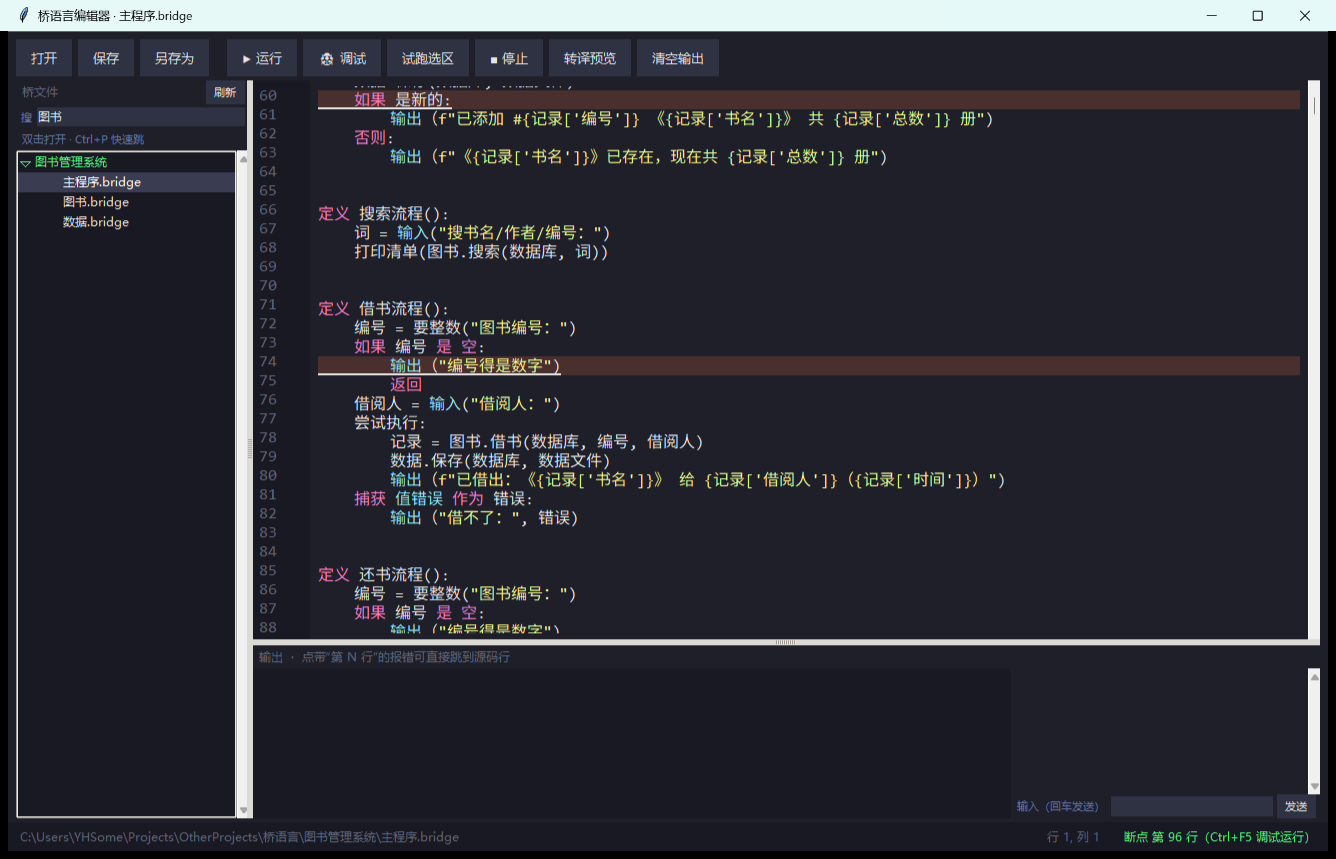
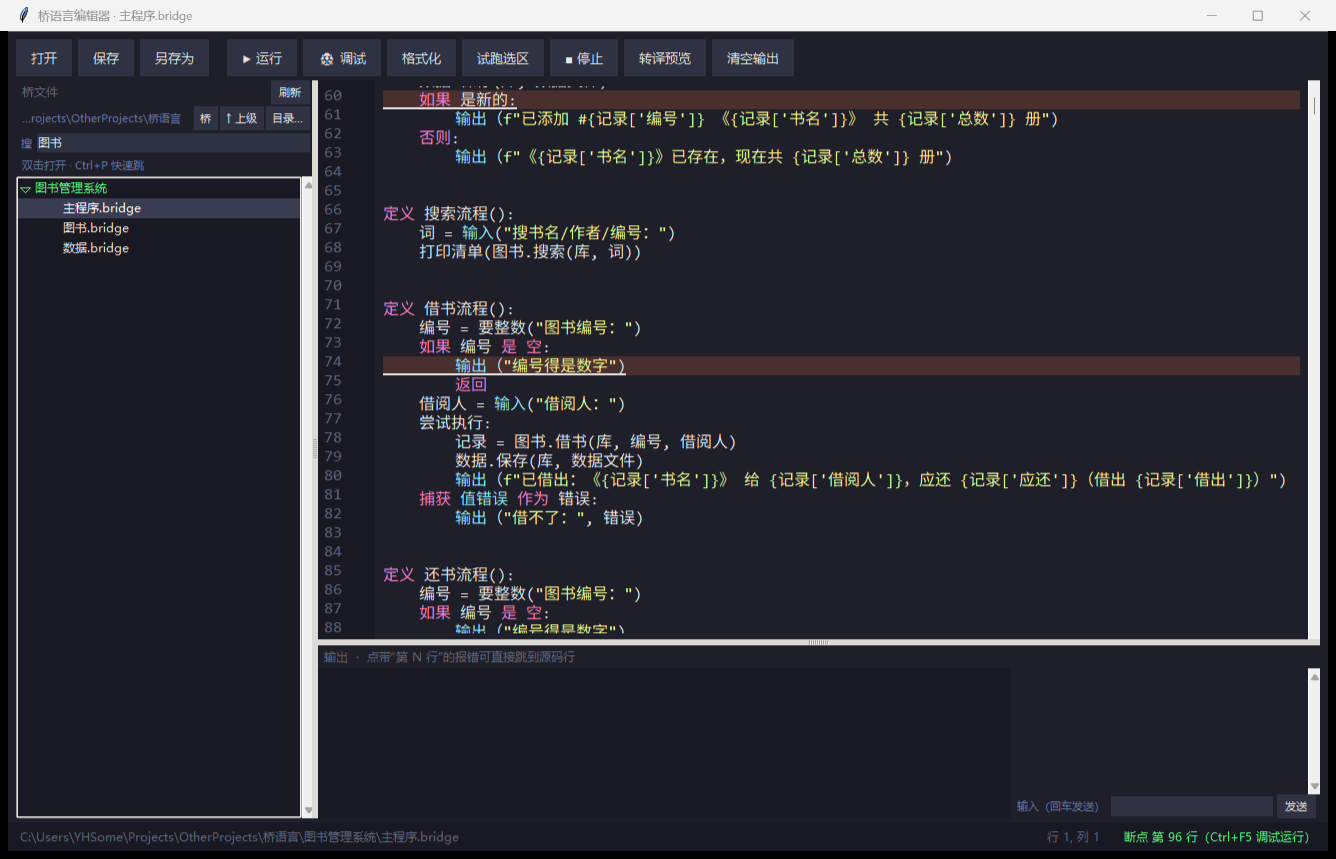
桥语言 v0.2.0：中文 Python 方言 + 便携包 + 编辑器/调试器 + AI 文档 + Pages

Changed region(s): [[0.0, 0.0303, 0.9513, 0.9686], [0.0307, 0.0, 0.1534, 0.0303]]

diff --git a/转译器/编辑器.py b/转译器/编辑器.py
@@ -31,6 +31,7 @@
 
 from __future__ import annotations
 
+import json
 import os
 import queue
 import re
@@ -67,8 +68,26 @@ def 选区到临时文件(文本: str, 目录: Path) -> Path:
 # 侧栏不展示这些目录（缓存、临时产物、别人的东西）
 跳过目录 = frozenset({
     '__pycache__', '.git', '.回归', '.运行临时', '.自检临时', '.tmp',
-    '.venv', 'node_modules', '.idea', '.vscode', 'docs',
+    '.venv', 'node_modules', '.idea', '.vscode', 'docs', '发布',
 })
+
+
+def _配置路径() -> Path:
+    return Path.home() / '.桥语言编辑器.json'
+
+
+def _载入工作目录() -> Path | None:
+    try:
+        数据 = json.loads(_配置路径().read_text(encoding='utf-8'))
+        目录 = Path(数据.get('根目录', ''))
+        return 目录 if 目录.is_dir() else None
+    except Exception:
+        return None
+
+
+def _缩写路径(路径: Path, 最长: int = 26) -> str:
+    文本 = str(路径)
+    return 文本 if len(文本) <= 最长 else '…' + 文本[-(最长 - 1):]
 
 
 def 列出桥文件(根: Path, *, 后缀: tuple[str, ...] = ('.bridge',)) -> list[Path]:
@@ -203,6 +222,7 @@ class 桥编辑器:
         self.字号 = 12
         self.断点: set[int] = set()
         self.断点表: dict[str, set[int]] = {}   # 每个文件各自的断点
+        self.根目录: Path = _载入工作目录() or 项目根
         self._断点文件 = ''
         self.自动保存 = True                    # 停手 1.2 秒自动存
         self._自动保存任务 = None
@@ -276,6 +296,22 @@ class 桥编辑器:
             activeforeground='#ffffff', padx=6, pady=1, cursor='hand2',
             font=('Microsoft YaHei UI', 8),
         ).pack(side='right', padx=2)
+
+        目录栏 = tk.Frame(侧栏, bg=配色['背景'])
+        目录栏.pack(side='top', fill='x', padx=2, pady=(2, 0))
+        self.根标签 = tk.Label(
+            目录栏, text='', anchor='w', bg=配色['背景'], fg=配色['注释'],
+            font=('Microsoft YaHei UI', 8), padx=2,
+        )
+        self.根标签.pack(side='left', fill='x', expand=True)
+        for 文案, 命令 in (('目录…', self.选择目录), ('↑ 上级', self.上一级目录),
+                          ('桥', self.回到桥目录)):
+            tk.Button(
+                目录栏, text=文案, command=命令, bd=0, relief='flat',
+                bg='#2f3242', fg=配色['前景'], activebackground='#3d4157',
+                activeforeground='#ffffff', padx=4, cursor='hand2',
+                font=('Microsoft YaHei UI', 8),
+            ).pack(side='right', padx=(2, 0))
         搜索框 = tk.Frame(侧栏, bg=配色['背景'])
         搜索框.pack(side='top', fill='x', padx=2, pady=(2, 0))
         tk.Label(搜索框, text='搜', bg=配色['背景'], fg=配色['注释'],
@@ -405,12 +441,44 @@ class 桥编辑器:
         self.刷新文件树()
 
     # ---------------------------------------------------------------- 文件树
+    def 选择目录(self):
+        """选任意目录（包括 .. 上级）作为工作目录"""
+        选 = filedialog.askdirectory(initialdir=str(self.根目录),
+                                     title='选择要编辑的目录（可以选上级）')
+        if 选:
+            self._切换根(Path(选))
+
+    def 上一级目录(self):
+        self._切换根(self.根目录.parent)
+
+    def 回到桥目录(self):
+        self._切换根(项目根)
+
+    def _切换根(self, 新根: Path) -> None:
+        新根 = Path(新根).resolve()
+        if not 新根.is_dir():
+            self._置状态(f'不是目录：{新根}', 配色['错误'])
+            return
+        self.根目录 = 新根
+        self._保存工作目录()
+        self.刷新文件树()
+        self._置状态(f'工作目录：{新根}')
+
+    def _保存工作目录(self) -> None:
+        try:
+            _配置路径().write_text(
+                json.dumps({'根目录': str(self.根目录)}, ensure_ascii=False, indent=2),
+                encoding='utf-8')
+        except OSError:
+            pass
+
     def 刷新文件树(self) -> None:
         """重建左侧树：子目录里的 .bridge 全列出来（默认根是桥语言目录）"""
         树 = getattr(self, '文件树', None)
         if 树 is None:
             return
-        根 = 项目根
+        根 = self.根目录
+        self.根标签.configure(text=_缩写路径(根))
         for 项 in 树.get_children(''):
             树.delete(项)
         全部 = 列出桥文件(根)
@@ -700,10 +768,9 @@ class 桥编辑器:
             return
         self.停止()
         if 路径 is None:
-            初始 = 示例目录 if (示例目录 := 项目根 / '示例').is_dir() else 项目根
             选择 = filedialog.askopenfilename(
                 title='打开 .bridge 文件',
-                initialdir=str(初始),
+                initialdir=str(self.根目录),
                 filetypes=[('桥语言源码', '*.bridge'), ('Python 源码', '*.py'), ('全部文件', '*.*')],
             )
             if not 选择:
@@ -718,6 +785,12 @@ class 桥编辑器:
         self.编辑区.insert('1.0', 内容)
         self.编辑区.edit_modified(False)
         self.路径 = Path(路径)
+        try:
+            self.路径.resolve().relative_to(self.根目录.resolve())
+        except ValueError:
+            self.根目录 = self.路径.resolve().parent   # 打开 ../ 的文件：把根挪过去
+            self._保存工作目录()
+            self.刷新文件树()
         self.脏 = False
         旧文件 = str(getattr(self, '_断点文件', ''))
         if 旧文件 and 旧文件 != str(self.路径):

diff --git a/README.md b/README.md
@@ -546,6 +546,7 @@ sys.meta_path.insert(0, 桥查找器())
 | **自动保存** | 停手 1.2 秒自动存（保存时顺手检查语法，错只提示不拦） |
 | **外部终端** | `Ctrl+Shift+F5`：开一个真终端窗口跑（需要 TTY 的程序用） |
 | **断点按文件记忆** | 切到别的文件再切回来，断点还在 |
+| **工作目录可跨 ..** | 侧栏「目录…」选任意目录（含上级）、「↑ 上级」直接跳上一级；打开 `../` 里的文件会自动把工作目录切过去，并记住上次选的目录 |
 | **左侧文件树** | 递归列出所有子目录里的 .bridge（跳过 __pycache__/.tmp 等），双击即开、开完自动选中；刷新 重扫 |
 | **快速打开（Ctrl+P）** | 输入几个字过滤文件名/路径（空格分隔多个关键词，全部命中才算），回车打开 |
 | **收/放侧栏（Ctrl+B）** | 屏幕小的时候把文件树收起来 |
